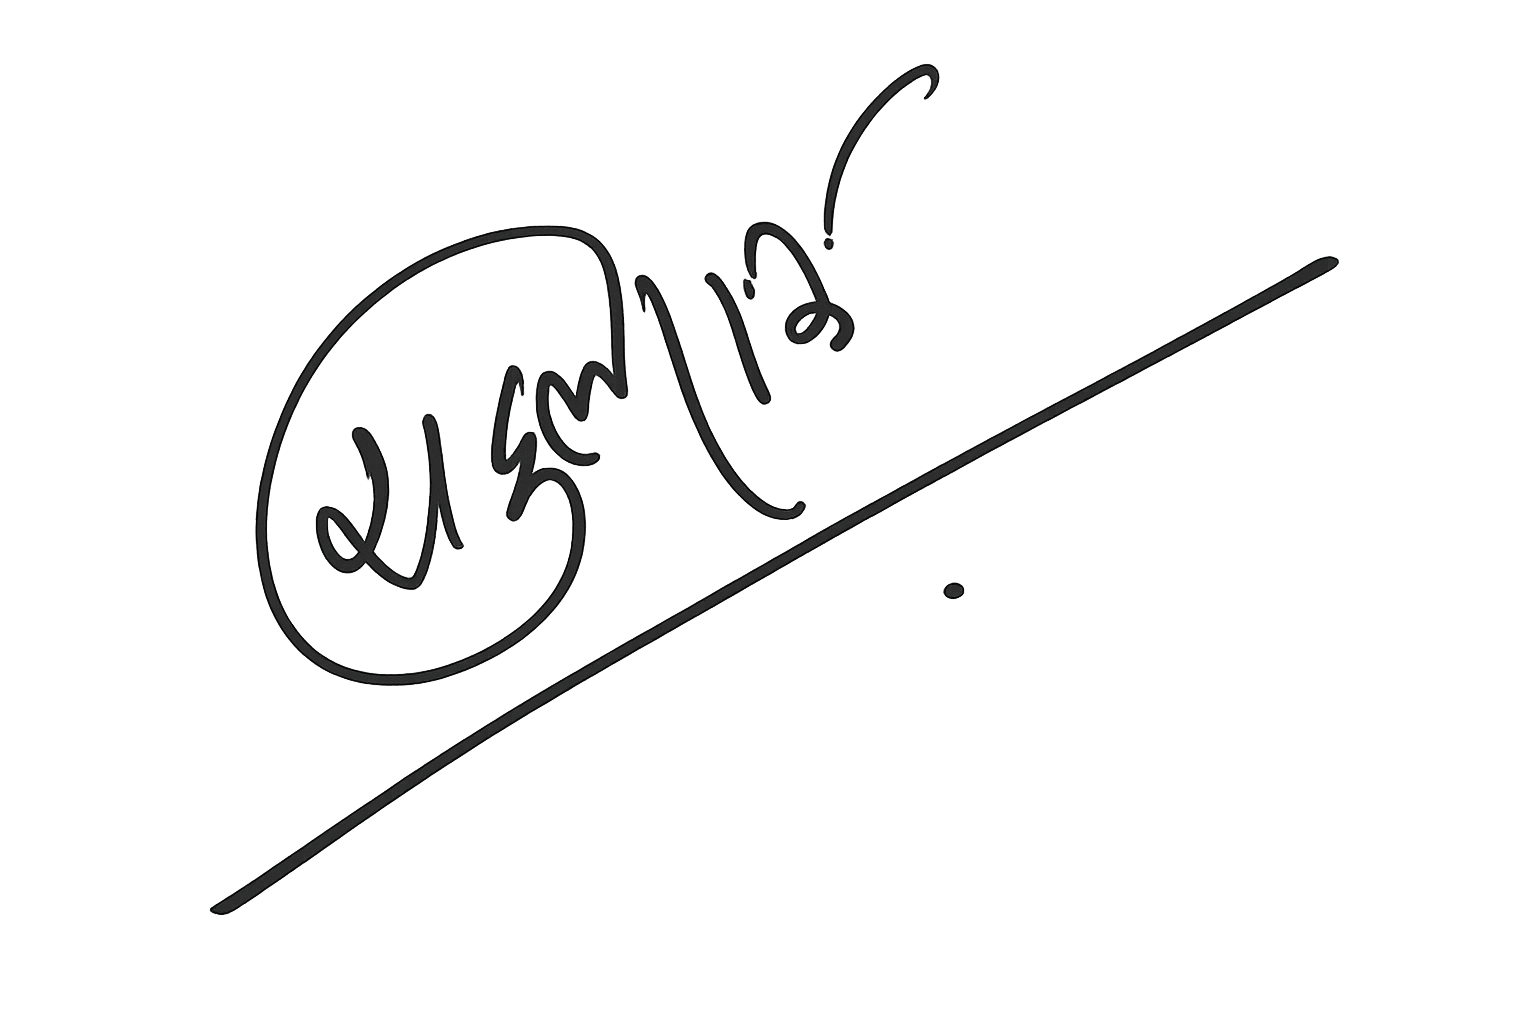
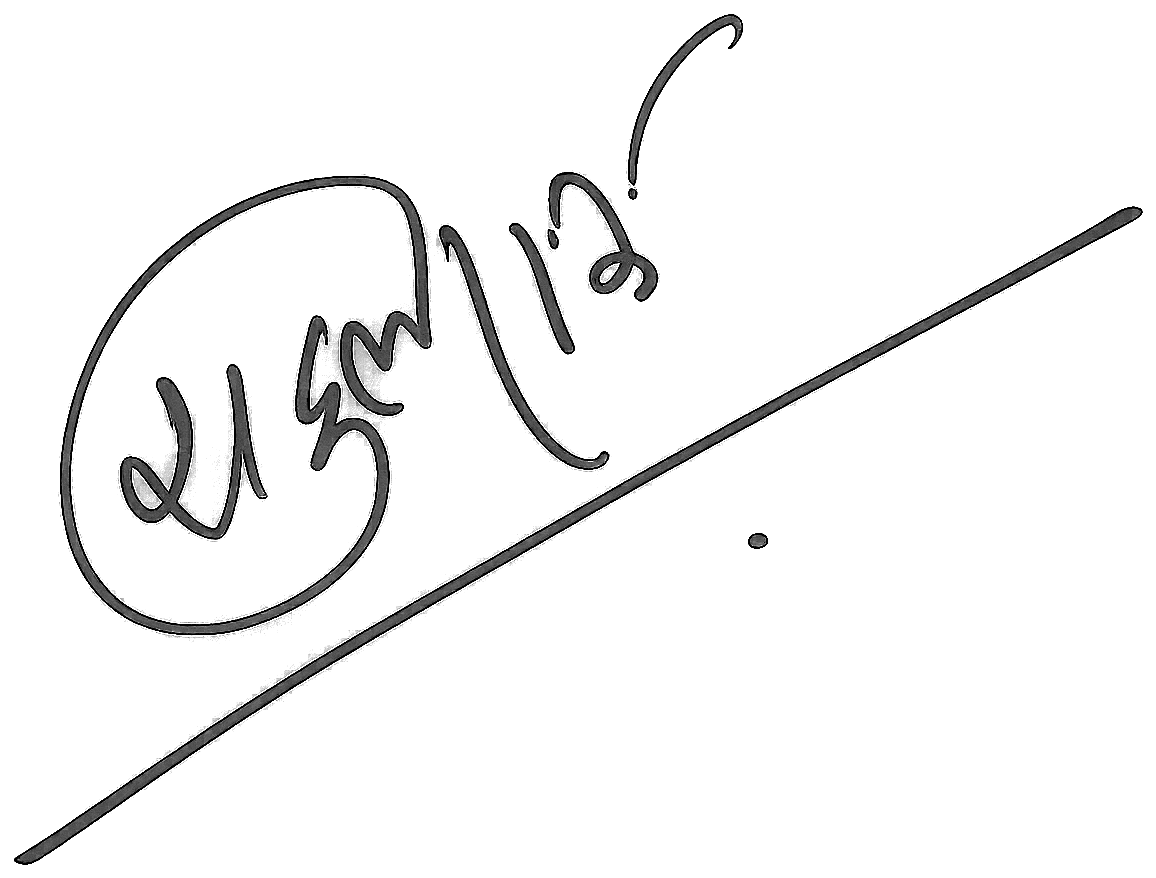
signature: make background truly transparent (remove grey/vignette, keep solid ink), autocrop; size/position tuned for bottom-right above संपर्क समय

diff --git a/lib/prescriptionPad/config.ts b/lib/prescriptionPad/config.ts
@@ -77,9 +77,9 @@ export const PRINT_MAHA_SPLIT_MM = 4;
  *  Height scales proportionally to the PNG; transparency is preserved. */
 export const SIGNATURE = {
   path: "/signatures/rahul-raj-sign.png",
-  xMm: 140,   // top-left X (mm). −left / +right to fine-tune
-  yMm: 176,   // top-left Y (mm). sits above the संपर्क समय footer (~195mm)
-  widthMm: 42, // width; height follows the image's aspect ratio
+  xMm: 150,   // top-left X (mm). −left / +right to fine-tune
+  yMm: 170,   // top-left Y (mm). sits just above the संपर्क समय footer (~195mm)
+  widthMm: 32, // width; height (~24mm) follows the image's 1.32 aspect ratio
 };
 /** PDF/Print: cap the printed Anushthan table to the first N selected rows. */
 export const ANUSHTHAN_PRINT_LIMIT = 3;
